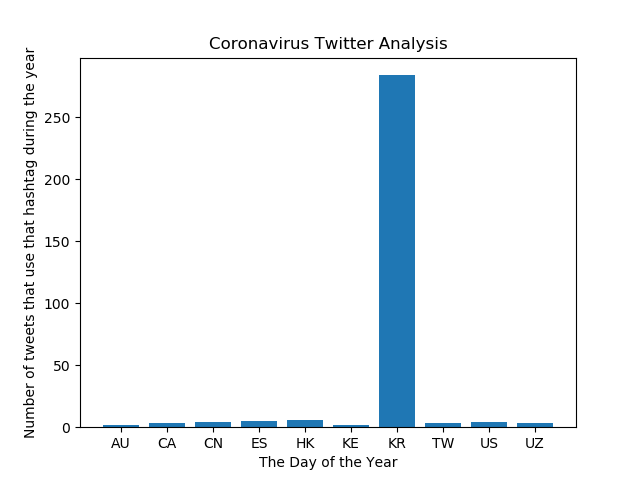
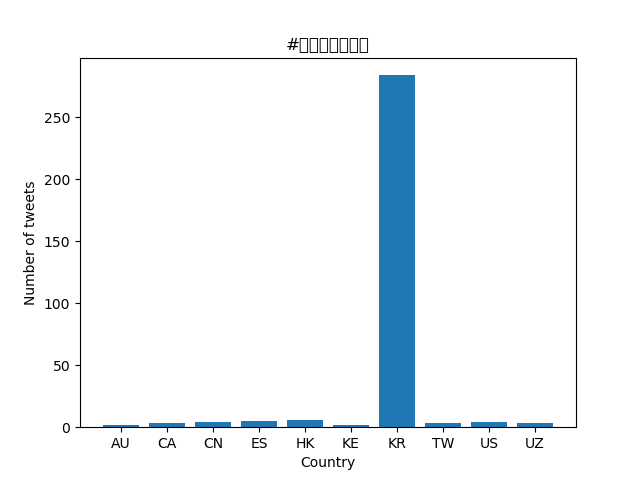
fixed all tities

Changed region(s): [[0.0312, 0.0938, 0.0625, 0.9062], [0.3125, 0.0625, 0.6875, 0.125], [0.4062, 0.9375, 0.625, 1.0]]

diff --git a/src/visualize.py b/src/visualize.py
@@ -33,9 +33,9 @@ top_10_items = items[:10]
 k = [item[0] for item in top_10_items]
 v = [item[1] for item in top_10_items]
 plt.bar(k, v)
-plt.xlabel('Language')
+plt.xlabel('Country')
 plt.ylabel('Number of tweets')
-plt.title('#coronavirus')
+plt.title('#코로나바이러스')
 if args.input_path[-1] == 'g':
     plt.savefig(args.key[1:] + '_lang.png')
 else:
